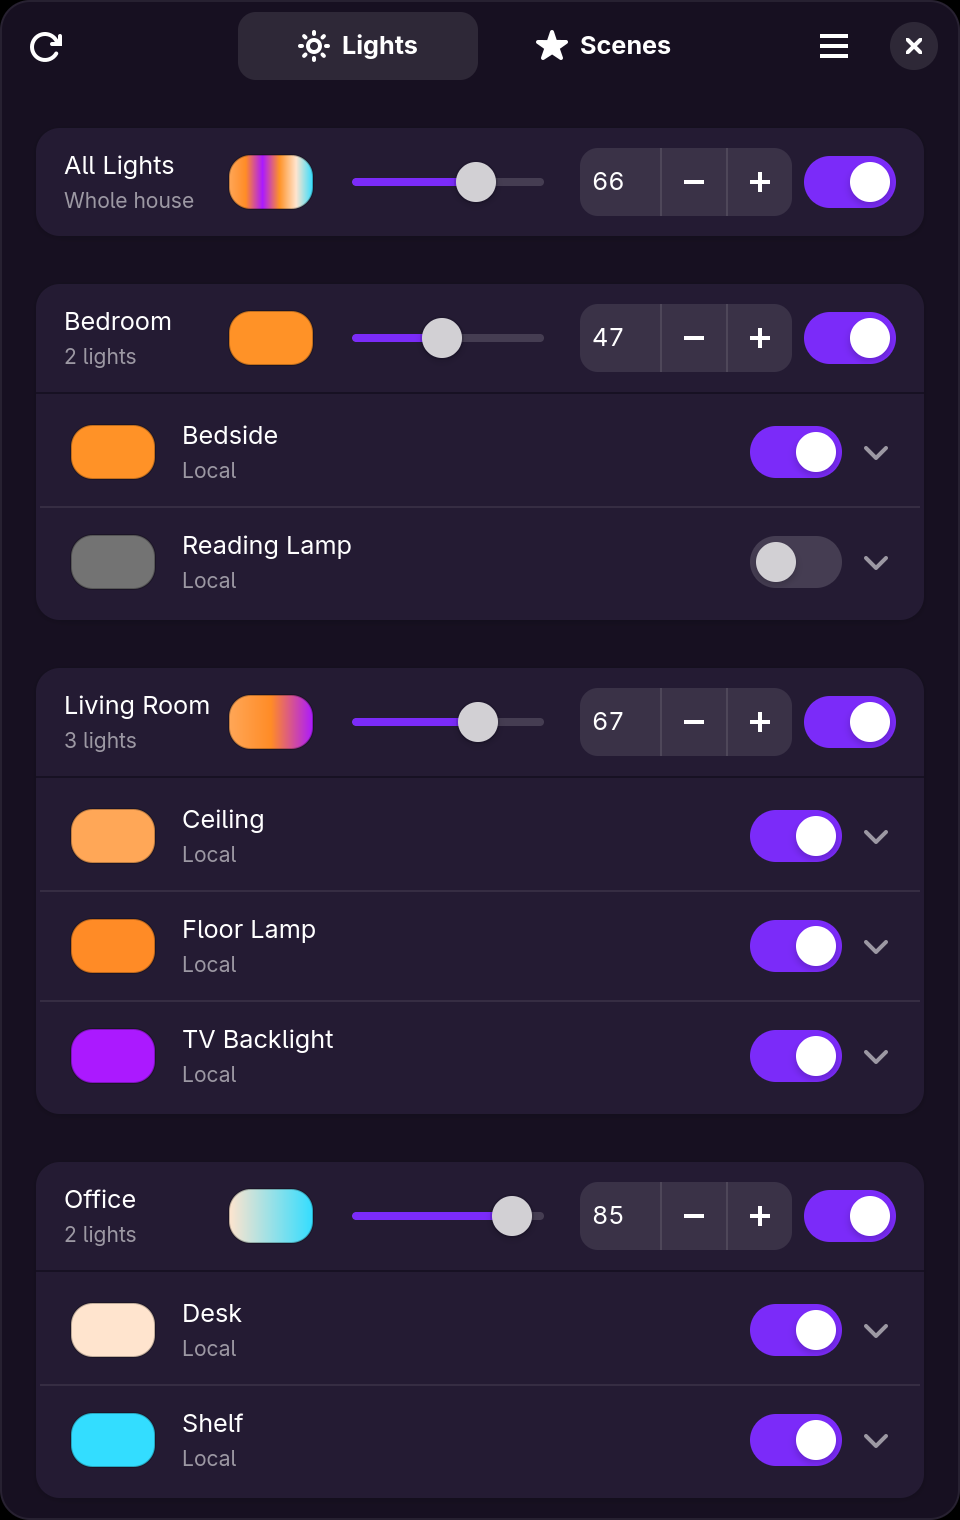
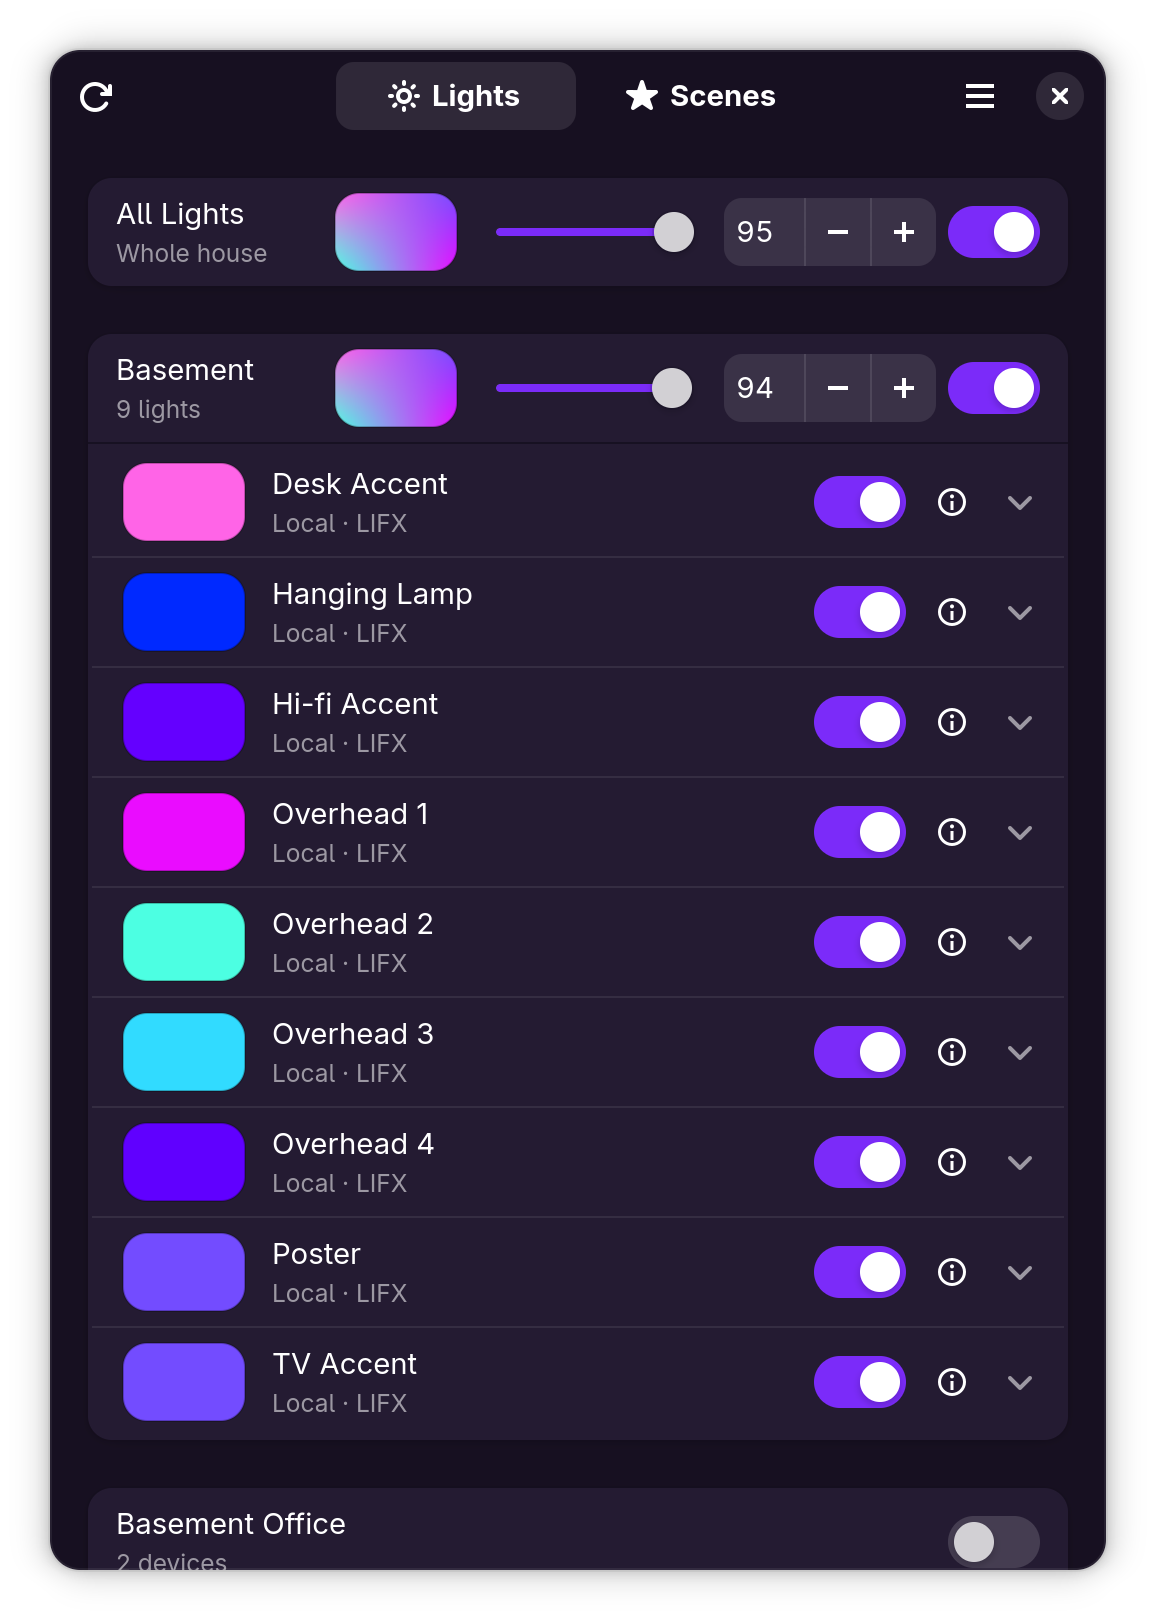
Refresh README screenshots for the 1.2.2 UI
Claude-Session: https://claude.ai/code/session_019kybF7RcqCZo7Rfyn3HrYS

diff --git a/README.md b/README.md
@@ -4,8 +4,8 @@ A native GNOME app (Rust + GTK4 + libadwaita) for controlling LIFX smart bulbs
 from the Linux desktop — no phone required.
 
 <p align="center">
-  <img src="docs/screenshot.png" alt="Luxel — Lights view" width="420">
-  <img src="docs/screenshot-scenes.png" alt="Luxel — Scenes view" width="420">
+  <img src="docs/screenshot.png" alt="Luxel — Lights view with rooms, color chips, and SmartLife devices" width="420">
+  <img src="docs/screenshot-color.png" alt="Luxel — a room's inline color panel with the hue wheel open" width="420">
 </p>
 
 ## Features
